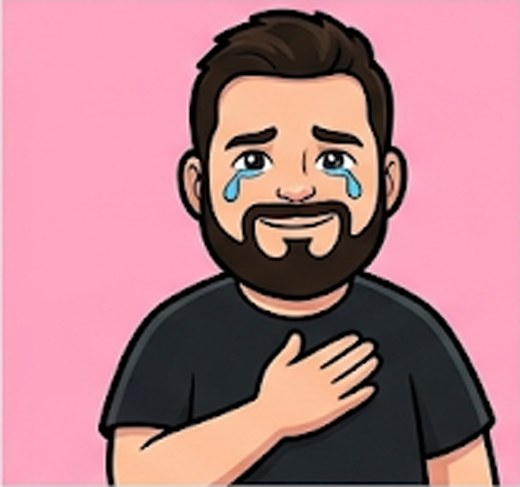
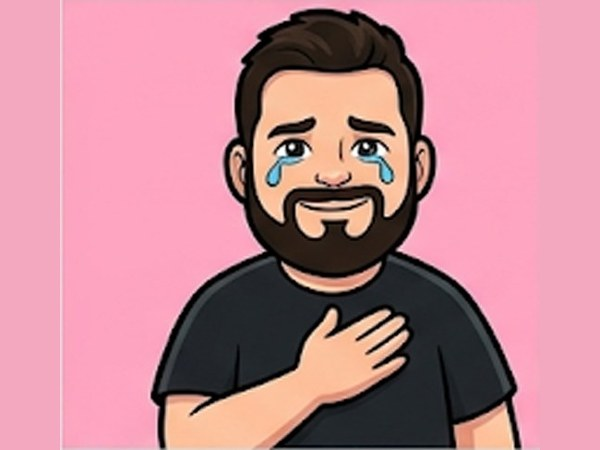
Uniform 4:3 memes, cache-busting, image fallback

diff --git a/index.html b/index.html
@@ -7,6 +7,7 @@
 <meta name="description" content="Práctica gratuita para el examen escrito de manejo de Kansas, en español e inglés.">
 <!-- El sitio ya es bilingüe: evitamos que el navegador lo traduzca por su cuenta -->
 <meta name="google" content="notranslate">
+<meta http-equiv="Cache-Control" content="no-cache, must-revalidate">
 <style>
   :root{
     --azul:#1a3a6b; --azul-claro:#2d5aa0; --amarillo:#f5b301;
@@ -57,8 +58,9 @@
   .review-item .ra{color:var(--verde); font-weight:600;}
   .review-item .rw{color:var(--rojo);}
   /* memes */
-  .meme{position:relative; max-width:480px; margin:0 auto 16px;}
-  .meme img{width:100%; border-radius:14px; display:block;}
+  .meme{position:relative; max-width:480px; margin:0 auto 16px; aspect-ratio:4/3;
+    background:#e8edf5; border-radius:14px; overflow:hidden;}
+  .meme img{width:100%; height:100%; object-fit:cover; border-radius:14px; display:block;}
   .meme-txt{position:absolute; left:0; right:0; text-align:center; font-family:Impact,'Arial Black',sans-serif;
     color:#fff; text-transform:uppercase; font-size:1.7rem; line-height:1.15; padding:0 10px; letter-spacing:.5px;
     text-shadow:2px 2px 0 #000,-2px -2px 0 #000,2px -2px 0 #000,-2px 2px 0 #000,0 3px 6px rgba(0,0,0,.6);}
@@ -133,7 +135,7 @@
   <section id="screen-results" class="hidden">
     <div class="card">
       <div class="meme" id="resultMeme">
-        <img id="memeImg" src="" alt="">
+        <img id="memeImg" src="" alt="" onerror="this.style.display='none'">
         <div class="meme-txt meme-top" id="memeTop"></div>
         <div class="meme-txt meme-bottom" id="memeBottom"></div>
       </div>
@@ -153,7 +155,7 @@
 <div class="modal hidden" id="cheerModal">
   <div class="modal-card">
     <div class="meme">
-      <img id="cheerImg" src="img/pass-pulgar.jpg" alt="">
+      <img id="cheerImg" src="img/pass-pulgar.jpg" alt="" onerror="this.style.display='none'">
       <div class="meme-txt meme-top" id="cheerTop"></div>
       <div class="meme-txt meme-bottom" id="cheerBottom"></div>
     </div>
@@ -163,8 +165,8 @@
 
 <footer id="footerText"></footer>
 
-<script src="questions.js"></script>
-<script src="memes.js"></script>
+<script src="questions.js?v=3"></script>
+<script src="memes.js?v=3"></script>
 <script>
 // ---------- Road sign SVGs ----------
 const SIGNS = {
